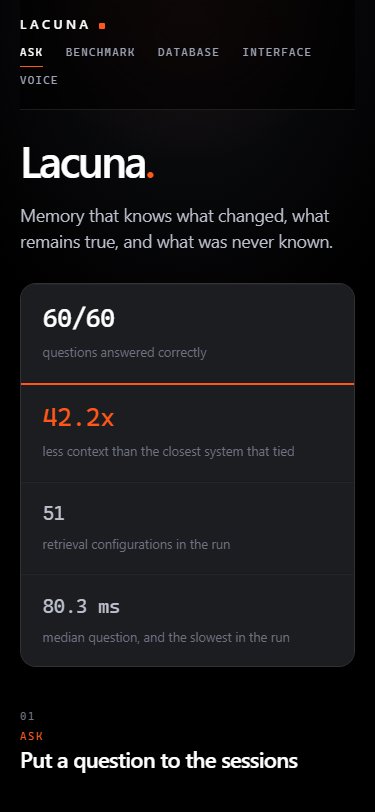
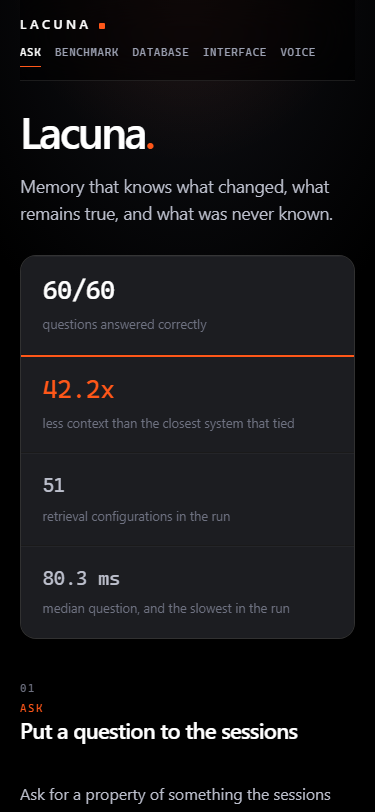
feat(design): full mobile parity on purpose, five tabs on one line

diff --git a/src/view/style.ts b/src/view/style.ts
@@ -293,6 +293,13 @@ body {
 
 .tabs a:hover, .ways a:hover { color: var(--ink); border-bottom-color: var(--rule-strong); }
 
+/* At phone width the five tabs are one character too wide for one line, which
+   orphans the last onto a row of its own. Tighter tracking and gap keep the
+   nav whole rather than dropping a page from it. */
+@media (max-width: 40rem) {
+  .tabs { gap: 0.35rem 0.85rem; letter-spacing: 0.06em; }
+}
+
 /*
  * The page you are on is said twice here, in colour and in a rule, because
  * colour on its own is not an answer for a reader who cannot see this one. The

diff --git a/DECISIONS.md b/DECISIONS.md
@@ -2223,3 +2223,26 @@ ratio cell only renders when a tied system exists to compare against.
 807 of 807 across 36 files; `npm run screens` 13 captures all checked, exit
 0; `artifacts/screens/home-1920x1080.png` inspected — the score and ratio
 lead, the count and median step back, and the ratio keeps its orange mark.
+
+### D-076: Mobile carries the whole page, and the nav stops orphaning a tab
+
+**The problem.** The phone capture weighs 77 KB against 315 KB for desktop,
+which read as a flag that the mobile page might be missing content. It also
+showed a real defect: the five tabs were one character too wide for 375px,
+so VOICE wrapped onto a row of its own, which makes one page of the site
+look like an afterthought of the nav rather than a member of it.
+
+**The fix.** The byte gap is pixel count, not content. A 375x812 capture has
+a tenth of the pixels of 1920x1080, and per pixel the mobile capture is the
+denser of the two (0.256 against 0.145 bytes per pixel). The stylesheet
+hides nothing at any viewport width — its only `display: none` rules are in
+the print block — so the phone gets every panel, every example, the ranked
+strip and the full corpus figures, and that parity is the decision: recorded
+here as deliberate rather than fixed. The one real defect got a real fix: at
+40rem the tabs tighten their tracking from 0.12em to 0.06em and their gap
+from 1.4rem to 0.85rem, which fits all five on one line.
+
+**What was run.** `npm run typecheck` exit 0; `npx vitest run tests/unit`
+807 of 807 across 36 files; `npm run screens` 13 captures all checked, exit
+0; `artifacts/screens/home-375x812.png` inspected — one nav line, ranked
+strip stacked in order, panel one opening beneath it.
